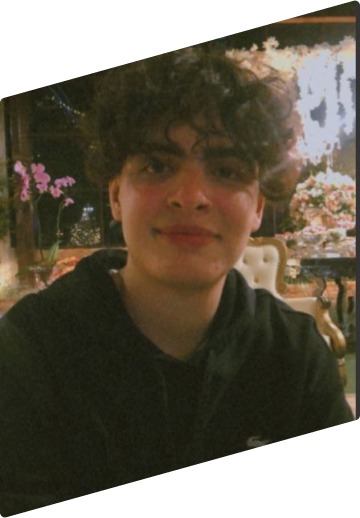
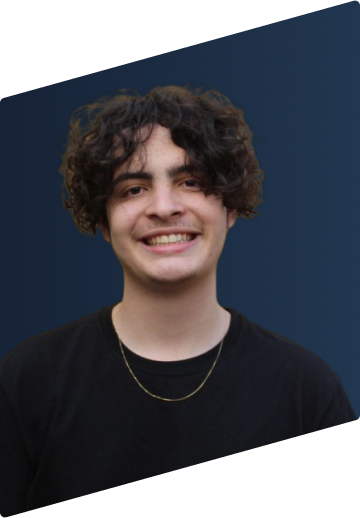
update

diff --git a/index.html b/index.html
@@ -22,7 +22,7 @@
     />
   </head>
   <body>
-    <header class="header">
+    <header class="header" data-anime="300">
       <img src="./img/marca.svg" alt="Matheus" />
       <nav>
         <ul class="header-menu">
@@ -33,7 +33,7 @@
       </nav>
     </header>
 
-    <main class="introducao">
+    <main class="introducao" data-anime="300">
       <img src="./img/eu.jpg" alt="Foto minha" />
       <div>
         <h1>Desenvolvedor<br />Front End &<br />UX/UI Design</h1>
@@ -41,20 +41,41 @@
       </div>
     </main>
 
-    <section class="experiencia" id="experiencia" aria-label="Experiência">
+    <section
+      class="experiencia"
+      id="experiencia"
+      aria-label="Experiência"
+      data-anime="300"
+    >
       <h2 class="subtitulo">Experiência</h2>
       <div>
         <p class="experiencia-texto">
-          Atualmente trabalho como <strong>Analista JR</strong> para um sistema
-          de varejo, mas meu sonho é me tornar um grande desenvolvedor.
+          Atualmente trabalho como
+          <strong>Analista de Desenvolvimento</strong> para a
+          <strong><a target="_blank" href="https://zixbe.com">Zixbe</a></strong
+          >, empresa de consultoria e agilização de processos.
         </p>
 
         <div class="empresa">
-          <span class="empresa-ano">2022</span>
+          <span class="empresa-ano">2023</span>
+          <h3 class="empresa-titulo">Zixbe</h3>
+          <span class="empresa-titulo">Analista de Desenvolvimento</span>
+          <p class="empresa-texto">
+            Responsável por desenvolver plataformas de agilização de processos internos.
+          </p>
+          <ul class="empresa-habilidades">
+            <li>JavaScript</li>
+            <li>Java</li>
+            <li>CSS</li>
+          </ul>
+        </div>
+
+        <div class="empresa">
+          <span class="empresa-ano">2022-23</span>
           <h3 class="empresa-titulo">Linx/Stone</h3>
           <span class="empresa-titulo">Analista JR</span>
           <p class="empresa-texto">
-            Suporte ao cliente para resolução de dúvidas ou problemas referentes
+            Suporte ao cliente para resolução de dúvidas ou problemas referentes.
             ao sistema da farmâcia
           </p>
           <ul class="empresa-habilidades">
@@ -69,7 +90,7 @@
           <h3 class="empresa-titulo">Linx</h3>
           <span class="empresa-titulo">Jovem Aprendiz</span>
           <p class="empresa-texto">
-            Suporte ao cliente para resolução de dúvidas ou problemas referentes
+            Suporte ao cliente para resolução de dúvidas ou problemas referentes.
             ao sistema da farmâcia
           </p>
           <ul class="empresa-habilidades">
@@ -118,7 +139,7 @@
             <div class="idiomas">
               <h3>Idiomas</h3>
               <ul>
-                <li></li>
+                <li>Ingês - Nível Iniciante</li>
               </ul>
             </div>
           </div>

diff --git a/css/experiencia.css b/css/experiencia.css
@@ -23,6 +23,11 @@
     color: #141414;
 }
 
+.experiencia-texto a {
+    text-decoration: none;
+    color: #141414;
+}
+
 .empresa {
     display: grid;
     grid-template-columns: 1fr 1fr;
